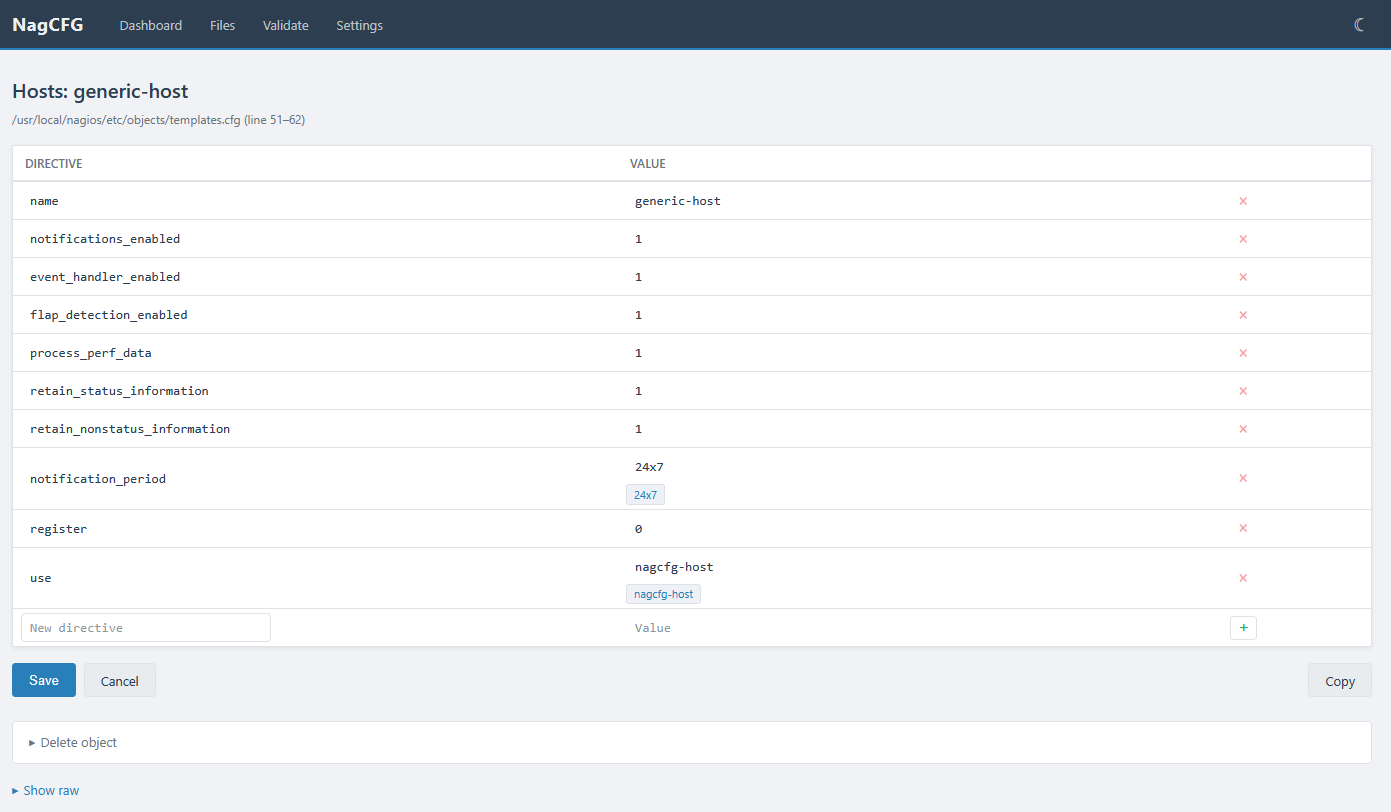
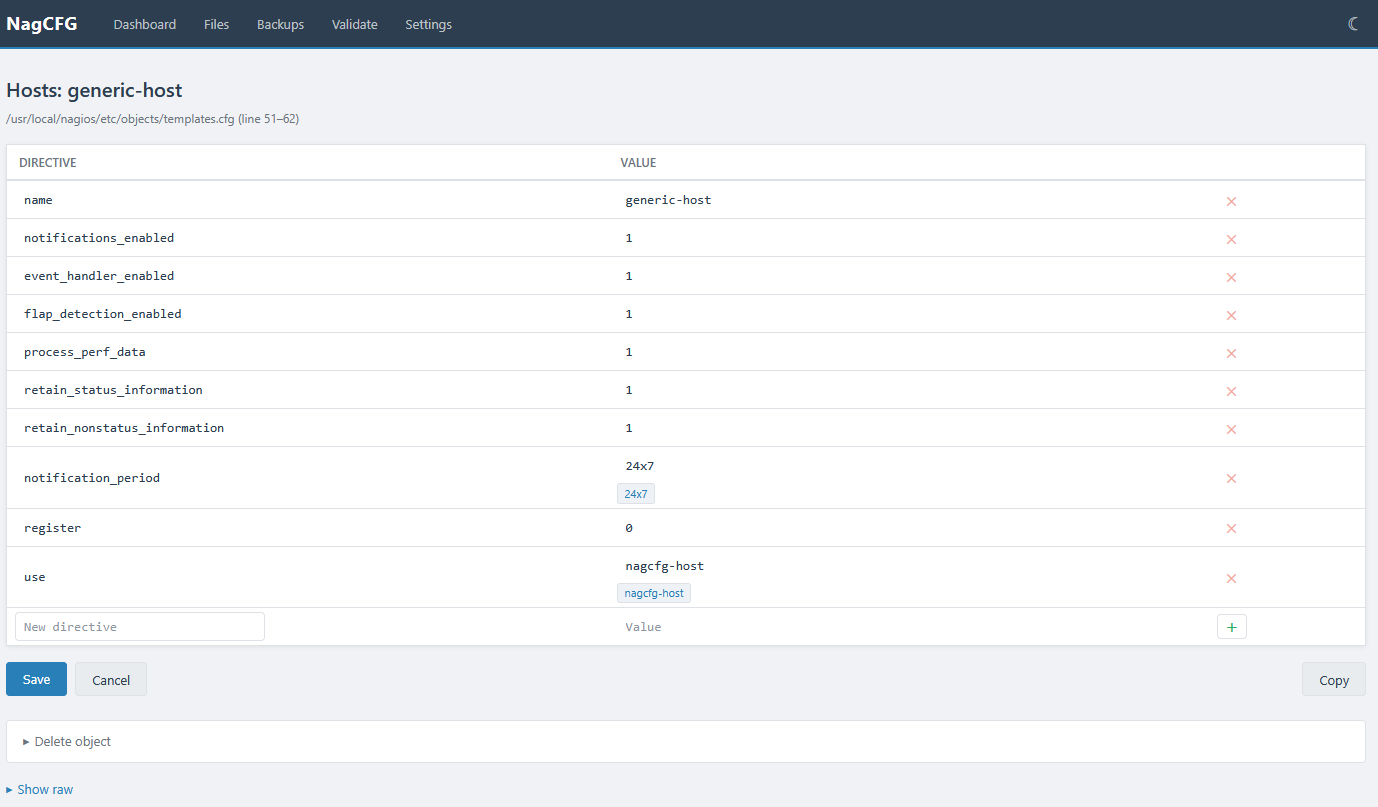
Update README with backup features and add backups screenshot

diff --git a/README.md b/README.md
@@ -15,7 +15,9 @@ Web-based configuration editor for Nagios Core 4.x. Edit, create and delete Nagi
 - Automatic validation (`nagios -v`) and reload after every change
 - Cascading rename: changing a name automatically updates all references across all config files
 - Duplicate detection on rename
-- Atomic writes with automatic backup
+- Cascading delete: removing a host also deletes its services and cleans up all references
+- Atomic writes with automatic backup before every change
+- Transaction-based backup and restore via the Backups tab
 - **[action_url integration: adds a clickable icon to every host and service in the Nagios web interface that links directly to the editor](#action_url-integration)**
 - Read-only mode via configuration
 - CSRF protection
@@ -97,6 +99,8 @@ The integration can be uninstalled from the same settings page.
 ![Settings](screenshots/settings.png)
 
 ![Validation](screenshots/validate.png)
+
+![Backups](screenshots/backups.png)
 
 ## Notes
 
